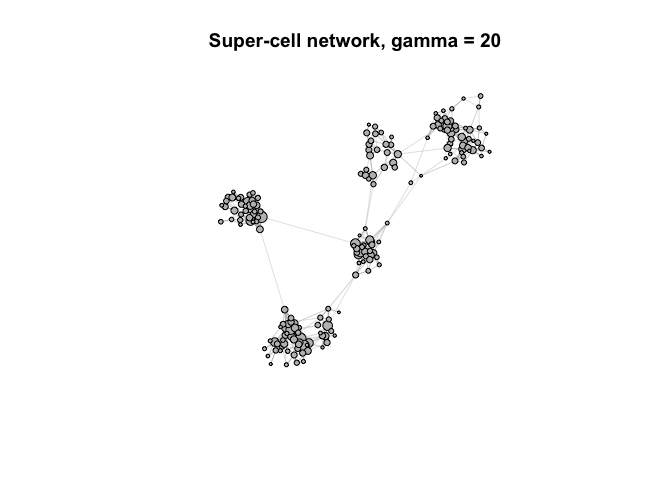
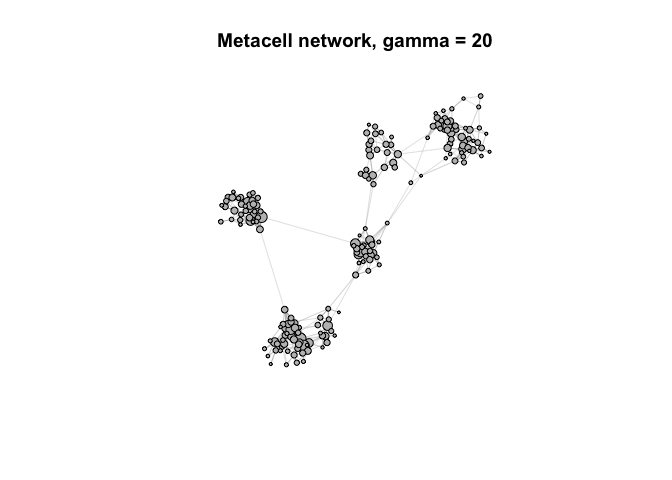
super-cells to metacells

Changed region(s): [[0.3125, 0.0625, 0.75, 0.125]]

diff --git a/README.md b/README.md
@@ -61,9 +61,9 @@ cell.meta <- cell_lines$meta
 Simplify single-cell data at the graining level *g**a**m**m**a* = 20
 --------------------------------------------------------------------
 
-(i.e., `20` times less metacells (called ‘supercells’ in the package)
-than single cells) by first building a kNN (*k* = 5) network using top
-*n*.*v**a**r*.*g**e**n**e**s* = 1000 most variable genes for
+(i.e., `20` times less metacells (called ‘supercells’ in the package
+functions) than single cells) by first building a kNN (*k* = 5) network
+using top *n*.*v**a**r*.*g**e**n**e**s* = 1000 most variable genes for
 dimentionality reduction. Function `SCimplify()` computes the partition
 into metacells, this information is available with the field
 `membership`.
@@ -83,7 +83,7 @@ SC <- SCimplify(GE,  # gene expression matrix
 
 supercell_plot(SC$graph.supercells, # network
                color.use = "gray", # color of the nodes
-               main = paste("Super-cell network, gamma =", gamma), 
+               main = paste("Metacell network, gamma =", gamma), 
                seed = 1) 
 ```
 
@@ -133,7 +133,7 @@ SC$cell_line <- supercell_assign(clusters = cell.meta, # single-cell assigment t
 
 seed <- 1 # seed for network plotting 
 
-# plot super-cell network colored by cell line assignment 
+# plot network of metacells colored by cell line assignment 
 supercell_plot(SC$graph.supercells, 
                group = SC$cell_line, 
                seed = seed, 
@@ -142,20 +142,20 @@ supercell_plot(SC$graph.supercells,
 
 ![](figures/assign%20metacells%20to%20cell%20line%20infromation-1.png)
 
-The quality of assigment can be evaluated with super-cell purity
-(function `supercell_purity()`) that returns the proportion of the most
-abundant cell type (in this case, cell line) in each super-cell.
+The quality of assigment can be evaluated with metacell purity (function
+`supercell_purity()`) that returns the proportion of the most abundant
+cell type (in this case, cell line) in each metacell.
 
 ``` r
 # compute purity of metacells in terms of cell line composition
 purity <- supercell_purity(clusters = cell.meta, 
                            supercell_membership = SC$membership, method = 'entropy')
-hist(purity, main = "Super-cell purity \nin terms of cell line composition")
+hist(purity, main = "Purity of metacells \nin terms of cell line composition")
 ```
 
 ![](figures/purity%20of%20supercell%20in%20terms%20of%20cell%20line%20composition-1.png)
 
-Some options to plot super-cell networks
+Some options to plot networks of metacells
 
 ``` r
 ## rotate network to be more consistent with the single-cell one
@@ -397,11 +397,8 @@ m.seurat <- FindClusters(m.seurat, graph.name = "RNA_nn")
 ## Elapsed time: 0 seconds
 ```
 
-[RNA velocity applied to super-cells](https://github.com/GfellerLab/SuperCell/blob/master/workbooks/RNAvelocity_for_SuperCells.md)
-==================================================================================================================================
-
-[RNA velocity applied to super-cells](https://github.com/GfellerLab/SuperCell/blob/master/workbooks/RNAvelocity_for_SuperCells.md)
-==================================================================================================================================
+[RNA velocity applied to SuperCell object](https://github.com/GfellerLab/SuperCell/blob/master/workbooks/RNAvelocity_for_SuperCells.md)
+=======================================================================================================================================
 
 [License](https://github.com/GfellerLab/SuperCell/blob/master/License.pdf)
 ==========================================================================
